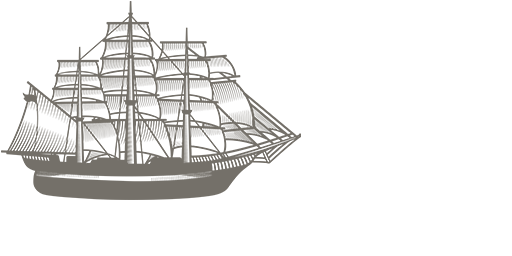
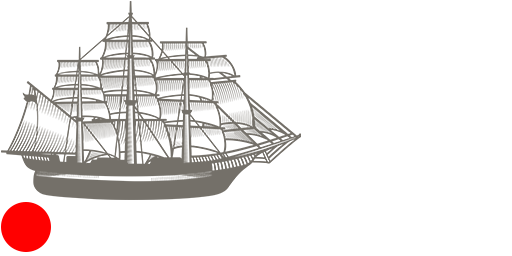
[ADD] Add listener for click

Changed region(s): [[0.0, 0.7812, 0.125, 1.0]]

diff --git a/src/ts/game/Main.js b/src/ts/game/Main.js
@@ -1,10 +1,14 @@
-var Greeter = (function () {
-    function Greeter() {
+var PointType = PIXI.Point;
+var ArmatureDisplayType = dragonBones.PixiArmatureDisplay;
+var EventType = dragonBones.EventObject;
+var Bone = dragonBones.Bone;
+var Main = (function () {
+    function Main() {
         this.renderer = new PIXI.WebGLRenderer(250, 250, { backgroundColor: 0xffffff });
         this.stage = new PIXI.Container();
         this._backgroud = new PIXI.Sprite(PIXI.Texture.EMPTY);
     }
-    Greeter.prototype.init = function () {
+    Main.prototype.init = function () {
         document.body.appendChild(this.renderer.view);
         this.stage.addChild(this._backgroud);
         this._backgroud.width = this.renderer.width;
@@ -16,38 +20,57 @@ var Greeter = (function () {
         PIXI.loader.once("complete", this._loadComplateHandler, this);
         PIXI.loader.load();
     };
-    Greeter.prototype._loadComplateHandler = function (loader, object) {
+    Main.prototype._loadComplateHandler = function (loader, object) {
         dragonBones.PixiFactory.factory.parseDragonBonesData(object["dragonBonesData"].data);
         dragonBones.PixiFactory.factory.parseTextureAtlasData(object["textureDataA"].data, object["textureA"].texture);
         this.stage.interactive = true;
-        var armature = dragonBones.PixiFactory.factory.buildArmature("ship");
+        var armature = dragonBones.PixiFactory.factory.buildArmature("shipball");
         var armatureDisplay = armature.display;
         armatureDisplay.x = this.renderer.width * .5;
         armatureDisplay.y = this.renderer.height * .5;
         armature.addEventListener(dragonBones.EventObject.START, this._animationEventHandler, this);
-        //armature.animation.play("ship-anim-1");
-        armature.animation.play("ship-anim-2");
+        armature.addEventListener(dragonBones.EventObject.FRAME_EVENT, this._animationEventHandler, this);
+        armature.animation.play("ship-anim-1");
+        //armature.animation.play("ship-anim-2");
         armature.animation.timeScale = 1;
         //armature.animation.fadeIn("ship-anim-2", 2, 2);
         //armature.animation.timeScale = 0.1;
+        var bones = armature.getBones();
+        var bone = armature.getBone("boneBall");
+        //bone.visible = false;
         // var armature = dragonBones.PixiFactory.factory.buildArmature("armature");
         // var armatureDisplay = <ArmatureDisplayType>armature.display;
         // armatureDisplay.x = this.renderer.width * .5;
         // armatureDisplay.y = this.renderer.height * .5;
         // armature.animation.play("newAnimation");
+        armatureDisplay.interactive = true;
+        armatureDisplay.buttonMode = true;
+        //armatureDisplay.on('click', this._touchHandler, this);
+        armatureDisplay.on('pointerdown', this._touchHandler, this);
+        //var interactionManager:PIXI.interaction.InteractionManager = new PIXI.interaction.InteractionManager(this.renderer);
+        // this.stage.on('touchstart', this._touchHandler, this);
+        // this.stage.on('touchend', this._touchHandler, this);
+        // this.stage.on('touchmove', this._touchHandler, this);
+        // this.stage.on('keydown', this._touchHandler, this);
+        // this.stage.on('keyup', this._touchHandler, this);
+        // this.stage.on('mousedown', this._touchHandler, this);
+        // this.stage.on('click', this._touchHandler, this);
         dragonBones.WorldClock.clock.add(armature);
         this.stage.addChild(armatureDisplay);
     };
-    Greeter.prototype._animationEventHandler = function (event) {
-        console.log(event.animationState.name, event.type);
+    Main.prototype._touchHandler = function (event) {
+        console.log(event.type);
     };
-    Greeter.prototype._renderHandler = function (deltaTime) {
+    Main.prototype._animationEventHandler = function (event) {
+        console.log(event.type, event.name, event.animationState.name);
+    };
+    Main.prototype._renderHandler = function (deltaTime) {
         dragonBones.WorldClock.clock.advanceTime(-1);
         this.renderer.render(this.stage);
     };
-    return Greeter;
+    return Main;
 }());
 ;
-var greeter = new Greeter();
-greeter.init();
+var main = new Main();
+main.init();
 //# sourceMappingURL=main.js.map

diff --git a/src/ts/game/Main.ts b/src/ts/game/Main.ts
@@ -1,0 +1,90 @@
+import PointType = PIXI.Point;
+import ArmatureDisplayType = dragonBones.PixiArmatureDisplay;
+import EventType = dragonBones.EventObject;
+import Bone = dragonBones.Bone;
+
+class Main
+{
+    private renderer = new PIXI.WebGLRenderer(250, 250, {backgroundColor:0xffffff});
+    private stage = new PIXI.Container();
+    private _backgroud:PIXI.Sprite = new PIXI.Sprite(PIXI.Texture.EMPTY);
+
+    constructor()
+    {
+    }
+
+    public init():void
+    {
+        document.body.appendChild(this.renderer.view);
+        this.stage.addChild(this._backgroud);
+        this._backgroud.width = this.renderer.width;
+        this._backgroud.height = this.renderer.height;
+        PIXI.ticker.shared.add(this._renderHandler, this);
+        PIXI.loader.add("dragonBonesData", "./resources/art_ske.json");
+        PIXI.loader.add("textureDataA", "./resources/art_tex.json");
+        PIXI.loader.add("textureA", "./resources/art_tex.png");
+        PIXI.loader.once("complete", this._loadComplateHandler, this);
+        PIXI.loader.load();
+    }
+
+    private _loadComplateHandler(loader:PIXI.loaders.Loader, object:dragonBones.Map<PIXI.loaders.Resource>):void
+    {
+        dragonBones.PixiFactory.factory.parseDragonBonesData(object["dragonBonesData"].data);
+        dragonBones.PixiFactory.factory.parseTextureAtlasData(object["textureDataA"].data, object["textureA"].texture);
+        this.stage.interactive = true;
+        var armature = dragonBones.PixiFactory.factory.buildArmature("shipball");
+        var armatureDisplay = <ArmatureDisplayType>armature.display;
+        armatureDisplay.x = this.renderer.width * .5;
+        armatureDisplay.y = this.renderer.height * .5;
+        armature.addEventListener(dragonBones.EventObject.START, this._animationEventHandler, this);
+        armature.addEventListener(dragonBones.EventObject.FRAME_EVENT, this._animationEventHandler, this);
+        armature.animation.play("ship-anim-1");
+        //armature.animation.play("ship-anim-2");
+        armature.animation.timeScale = 1;
+        //armature.animation.fadeIn("ship-anim-2", 2, 2);
+        //armature.animation.timeScale = 0.1;
+        var bones:Array<Bone> = armature.getBones();
+        var bone:Bone = armature.getBone("boneBall");
+        //bone.visible = false;
+        // var armature = dragonBones.PixiFactory.factory.buildArmature("armature");
+        // var armatureDisplay = <ArmatureDisplayType>armature.display;
+        // armatureDisplay.x = this.renderer.width * .5;
+        // armatureDisplay.y = this.renderer.height * .5;
+        // armature.animation.play("newAnimation");
+
+        armatureDisplay.interactive = true;
+        armatureDisplay.buttonMode = true;
+        //armatureDisplay.on('click', this._touchHandler, this);
+        armatureDisplay.on('pointerdown', this._touchHandler, this);
+
+        //var interactionManager:PIXI.interaction.InteractionManager = new PIXI.interaction.InteractionManager(this.renderer);
+
+        // this.stage.on('touchstart', this._touchHandler, this);
+        // this.stage.on('touchend', this._touchHandler, this);
+        // this.stage.on('touchmove', this._touchHandler, this);
+        // this.stage.on('keydown', this._touchHandler, this);
+        // this.stage.on('keyup', this._touchHandler, this);
+        // this.stage.on('mousedown', this._touchHandler, this);
+        // this.stage.on('click', this._touchHandler, this);
+
+        dragonBones.WorldClock.clock.add(armature);
+        this.stage.addChild(armatureDisplay);
+    }
+
+    private _touchHandler(event:PIXI.interaction.InteractionEvent):void
+    {
+        console.log(event.type);
+    }
+
+    private _animationEventHandler(event: EventType): void {
+        console.log(event.type, event.name, event.animationState.name);
+    }
+
+    private _renderHandler(deltaTime: number): void {
+        dragonBones.WorldClock.clock.advanceTime(-1);
+        this.renderer.render(this.stage);
+    }
+};
+
+var main = new Main();
+main.init();

diff --git a/src/index.html b/src/index.html
@@ -1,11 +1,11 @@
 <!DOCTYPE html>
 <html>
-  <head><title>TypeScript Greeter</title></head>
+  <head><title>Template TypeScript</title></head>
   <body>
   <script src="libs/Pixi/pixi.min.js"></script>
   <script src="libs/DragonBonesJS/DragonBones/build/dragonBones.min.js"></script>
   <script src="libs/DragonBonesJS/DragonBones/build/dragonBones.min.js"></script>
   <script src="libs/DragonBonesJS/Pixi/build/dragonBonesPixi.min.js"></script>
-    <script src='ts/game/main.js'></script>
+    <script src='ts/game/Main.js'></script>
   </body>
 </html>

diff --git a/README.md b/README.md
@@ -6,7 +6,7 @@ This sample shows basic class definition and instantiation.
 
 ## Running
 ```
-tsc --sourcemap main.ts
+tsc --sourcemap Main.ts
 start greeter.html
 ```
 chrome.exe --allow-file-access-from-files
